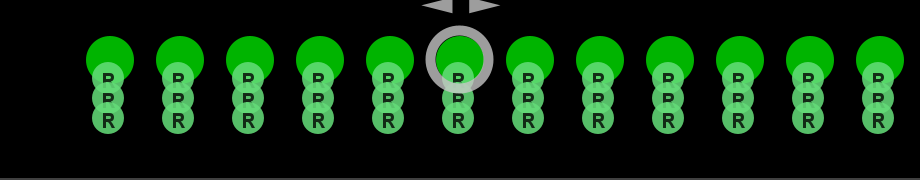
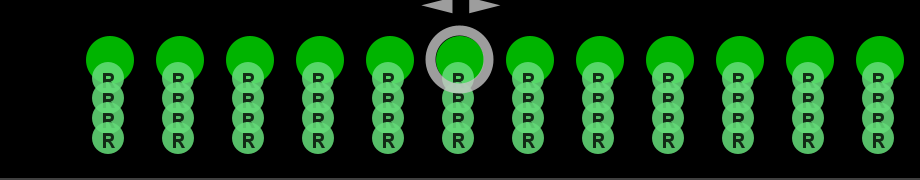
Getting started: DeepSlice twice on channels 0,1, Elastix on 0,1 against 0,1, as the video
DeepSlice on DAPI and the autofluorescence, kept in order and evenly spaced,
run twice; Elastix affine then spline on both channel pairs. The pictures
after DeepSlice regenerated (four registrations per slice). DeepSlice gets
the channels with their display settings (its Slice channels description).

diff --git a/docs/source/getting_started/first_registration.md b/docs/source/getting_started/first_registration.md
@@ -25,7 +25,7 @@ The sections of the slide appear below the atlas, selected. The slide label and 
 
 ## 3. Adjust the display
 
-In the `Slices Display` card, select all slices (`ctrl + A`), then use the header row of the table to show the nuclear (DAPI) channel and adjust its minimum and maximum displayed values: the tissue should be clearly visible, but not saturated (see [Display slices](../guide/select_display_slices.md#display-slices)). This matters for DeepSlice, which works on the displayed images.
+In the `Slices Display` card, select all slices (`ctrl + A`), then use the header row of the table to show the nuclear (DAPI) channel and adjust its minimum and maximum displayed values: the tissue should be clearly visible, but not saturated (see [Display slices](../guide/select_display_slices.md#display-slices)). This matters for DeepSlice, which receives the channels with their display settings: color, minimum and maximum.
 
 ![The 12 sections, all selected, with only their DAPI channel displayed](/assets/abba/getting_started/first_registration/03_display_adjusted.png)
 
@@ -37,26 +37,34 @@ Switch to review mode with `R`, and browse the slices with the left and right ar
 
 ## 5. Position the slices with DeepSlice
 
-Select all slices (`ctrl + A`) and click {menuselection}`Register --> DeepSlice --> DeepSlice Registration`. Choose the DAPI channel as `Slice channels`, keep `Adjust atlas slicing angle` checked and `Keep order` as post-processing, then click `OK`.
+Select all slices (`ctrl + A`) and click {menuselection}`Register --> DeepSlice --> DeepSlice Registration`:
+
+* keep the `mouse` model, for this mouse atlas;
+* set `Slice channels` to `0,1`: the DAPI channel, and channel 1, mostly autofluorescence, which outlines the sections well;
+* keep `Adjust atlas slicing angle` checked;
+* choose `Keep order + ensure regular spacing` as `Position post-processing`: the sections of the slide were cut at a regular interval, a prior knowledge DeepSlice can use;
+* click `OK`.
 
 The first time, ABBA installs DeepSlice, which takes a few minutes. DeepSlice then positions each slice along the atlas, adjusts the atlas slicing angles, and adds a first affine registration (see [Automated positioning with DeepSlice](#deepslice)).
 
-![After DeepSlice, positioning mode: the sections are spread along the atlas, an R marker under each handle](/assets/abba/getting_started/first_registration/05_after_deepslice.png)
+Run DeepSlice a second time, with the same settings: the second run refines the result a bit more.
+
+![After the two DeepSlice runs, positioning mode: the sections are evenly spaced along the atlas, a marker under each handle for each run](/assets/abba/getting_started/first_registration/05_after_deepslice.png)
 
 Check the result in review mode. If a slice is badly positioned, drag it in positioning mode, or correct the atlas slicing angles in the `Atlas Slicing` card (see [Manual positioning](../guide/position_along_atlas.md#manual-positioning)).
 
-![After DeepSlice, review mode: the same section over the atlas section at its new position](/assets/abba/getting_started/first_registration/05_review_after_deepslice.png)
+![After the two DeepSlice runs, review mode: the same section over the atlas section at its new position](/assets/abba/getting_started/first_registration/05_review_after_deepslice.png)
 
 ## 6. Register the slices in plane
 
 With all slices selected:
 
-1. Click {menuselection}`Register --> Affine --> Elastix Registration (Affine)`. Set `Atlas channels` to `0` (the atlas Nissl staining) and `Slice channels` to the DAPI channel, keep the registration pixel size to 40 micrometers, and click `OK`.
-2. Click {menuselection}`Register --> Spline --> Elastix Registration (Spline)`, with the same channels, 10 control points and a 20 micrometers pixel size.
+1. Click {menuselection}`Register --> Affine --> Elastix Registration (Affine)`. Set `Atlas channels` to `0,1` and `Slice channels` to `0,1`: the channels are paired in order. Channel 0 pairs the Nissl staining of the atlas with DAPI, which look alike; channel 1 pairs their autofluorescence. Using both pairs improves the registration. Keep the registration pixel size to 40 micrometers, fast and enough for an affine registration, and click `OK`.
+2. Click {menuselection}`Register --> Spline --> Elastix Registration (Spline)`, with the same channels, 10 control points along X and a 20 micrometers pixel size, finer, for the local deformations. The number of control points along Y follows the aspect ratio of the region of interest: about 100 control points in all.
 
 The indicators below the slice handles turn green when the registrations are done (see [Refine the in-plane registration](../guide/inplane_registration.md)). The first registration takes a moment longer, while ABBA installs elastix.
 
-![The slice handles, in review mode: under each one, three green markers for its three registrations, DeepSlice, Elastix affine and Elastix spline, all done](/assets/abba/getting_started/first_registration/06_registration_markers.png){.dialog}
+![The slice handles, in review mode: under each one, four green markers for its four registrations, the two DeepSlice runs, Elastix affine and Elastix spline, all done](/assets/abba/getting_started/first_registration/06_registration_markers.png){.dialog}
 
 Check the result in review mode: press `P` and `N` to step back and forth through the registrations of the slices. A registration that went wrong can be removed with {menuselection}`Register --> Remove Last Registration`, or edited by hand with {menuselection}`Register --> Edit Last Registration`.
 
